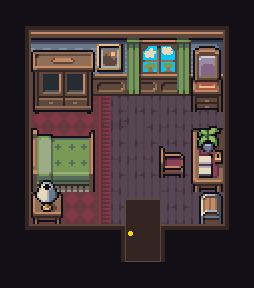
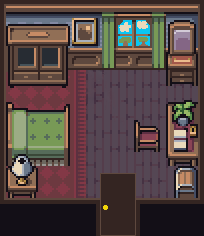
I changed the screen dimension sizes because the new house background just could not be scaled. I also changed the character dimensions and made some changes to the house background.

diff --git a/game.py b/game.py
@@ -4,10 +4,10 @@ pygame.init()
 
 
 
-X = 1168
-Y = 630
+X = 510
+Y = 552
 BORDER_SIZE = 10
-AVATAR_SIZE = 70
+AVATAR_SIZE = 80
 VEL = 4
 AVATAR_X = (X - AVATAR_SIZE) / 2 # 4
 AVATAR_Y = (Y - AVATAR_SIZE) / 2 # 6
@@ -58,7 +58,7 @@ while running == True:
     house = pygame.draw.rect(screen, 'black', pygame.Rect(BORDER_SIZE, BORDER_SIZE, X - 2 * BORDER_SIZE, Y - BORDER_SIZE * 2))
     #portal = pygame.draw.rect(screen, 'aquamarine2', (1100, 530, 50, 50))
     background = pygame.image.load('House_background.png')
-    background = pygame.transform.scale(background, (1148, 610))
+    background = pygame.transform.scale(background, (490, 533))
     
     # Finding the midpoint of the screen.
     midpoint = (AVATAR_X , AVATAR_Y)
